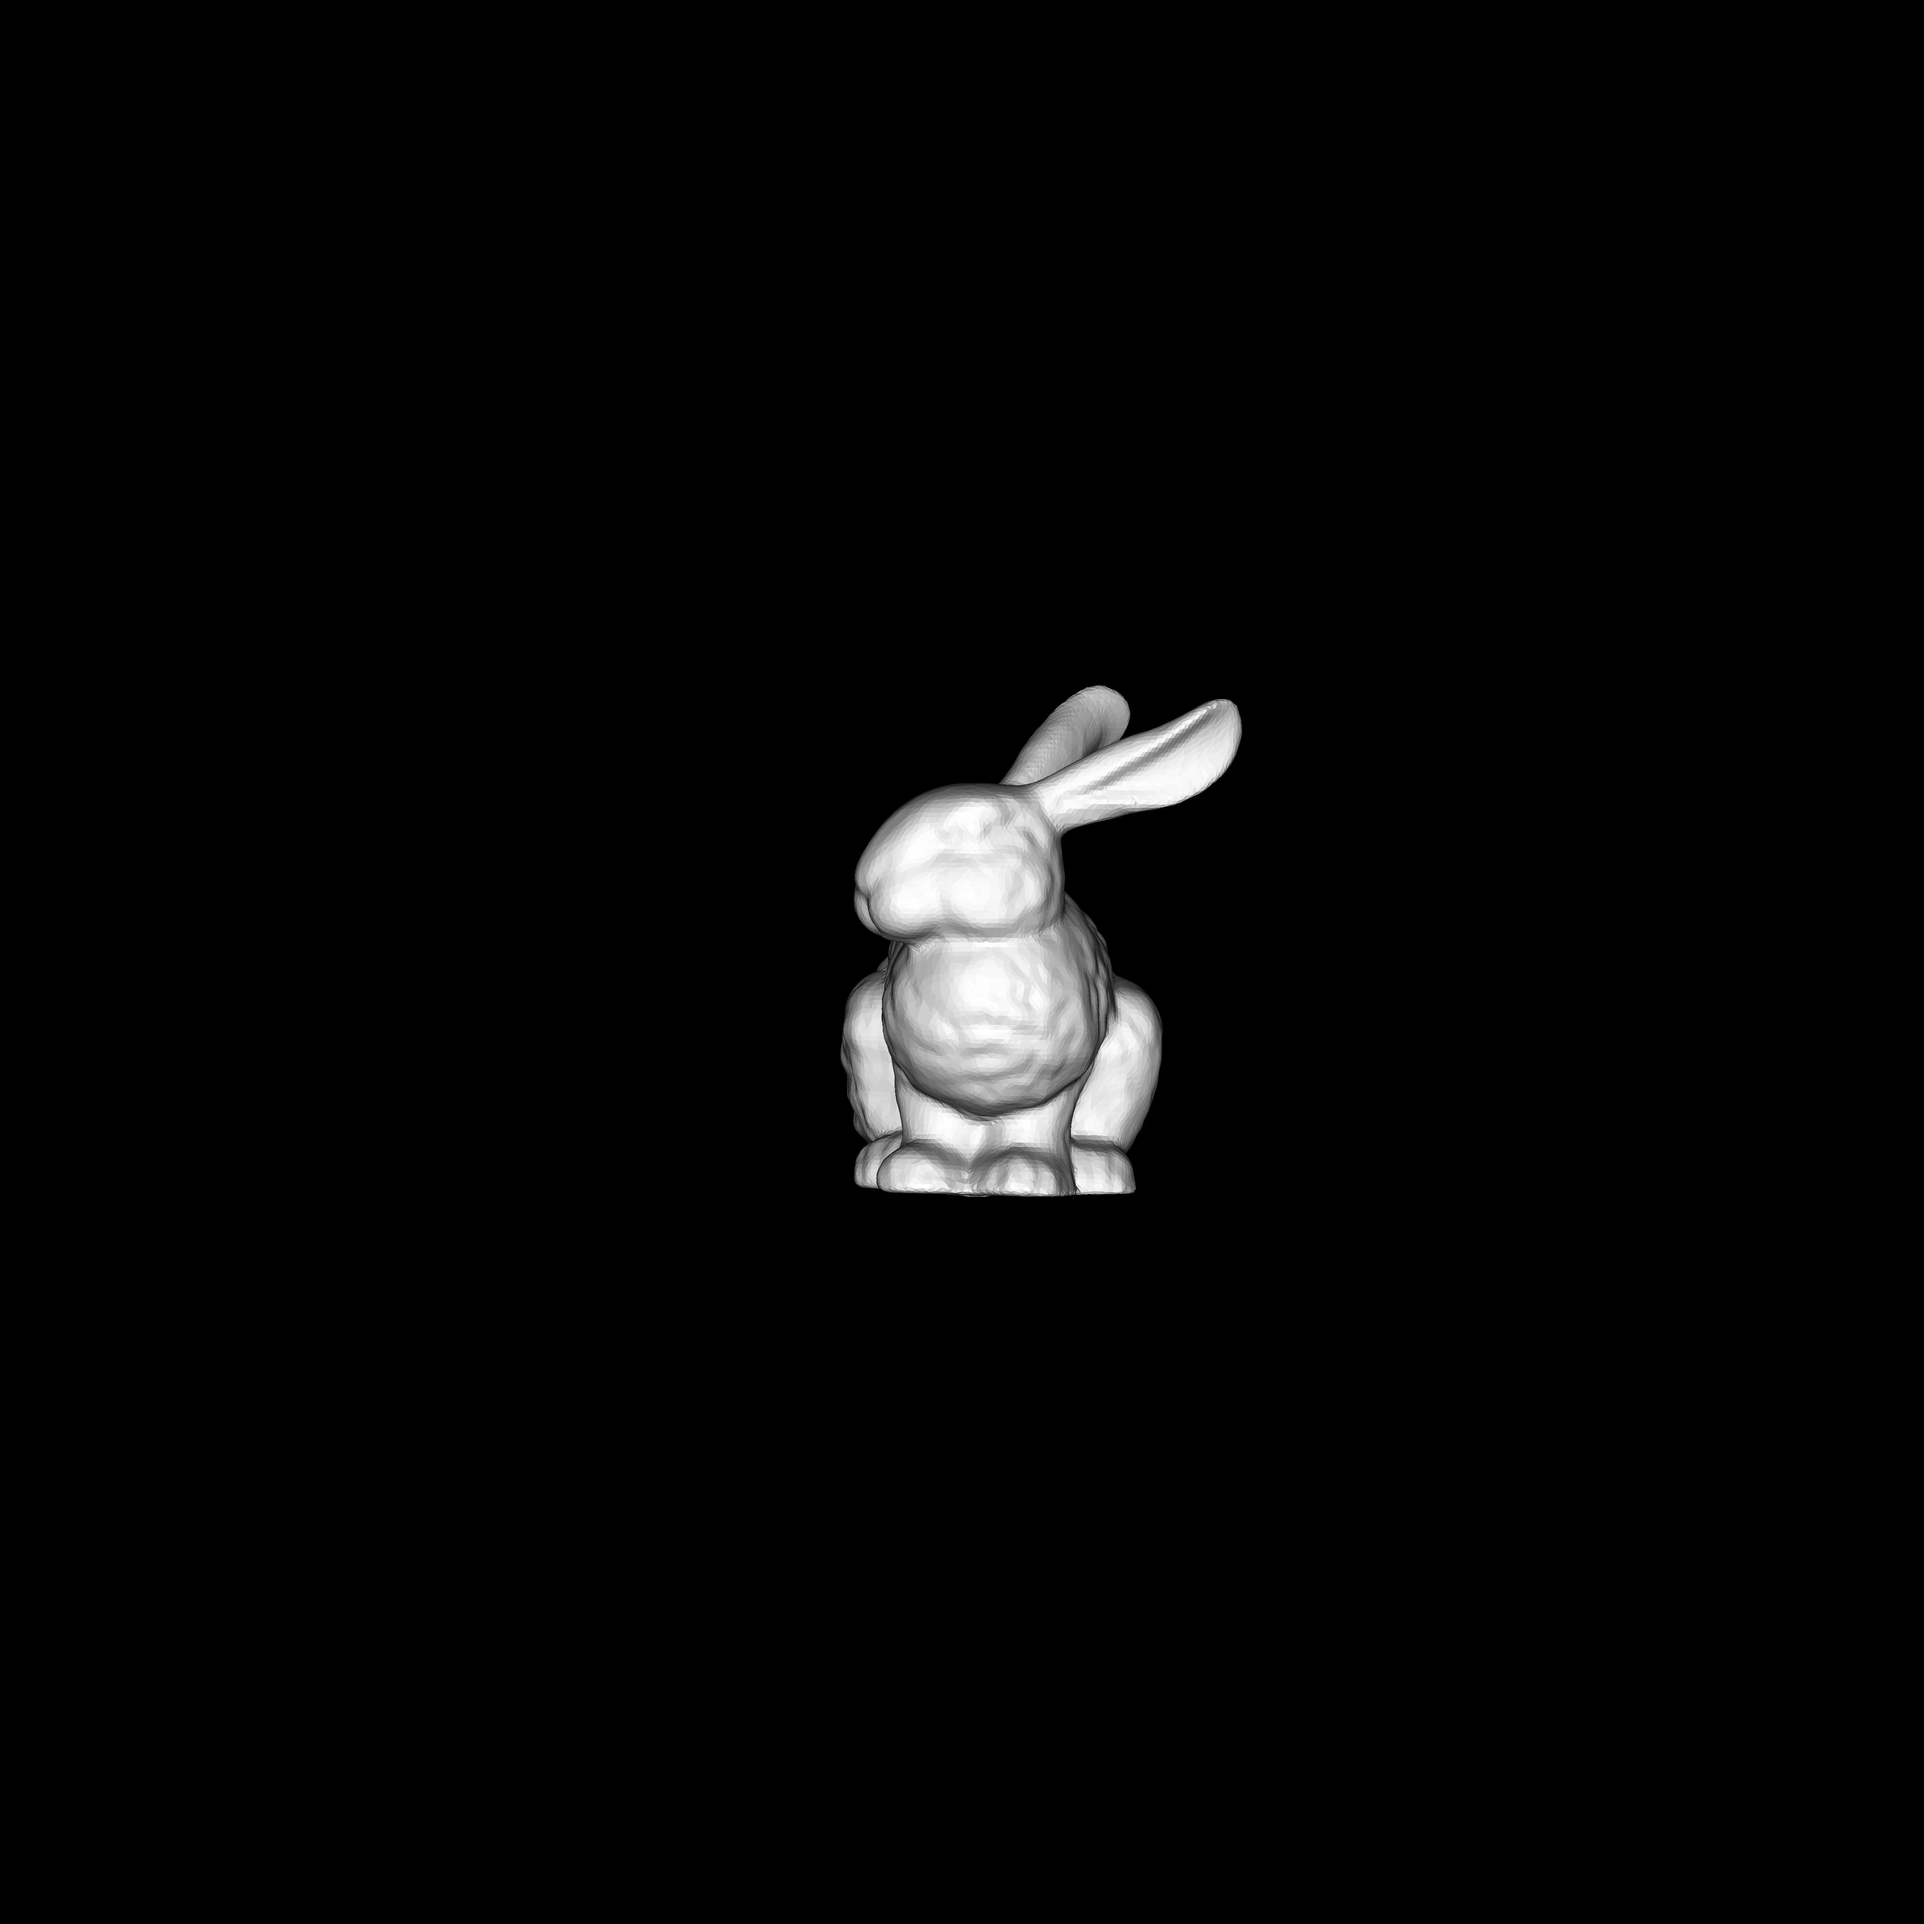
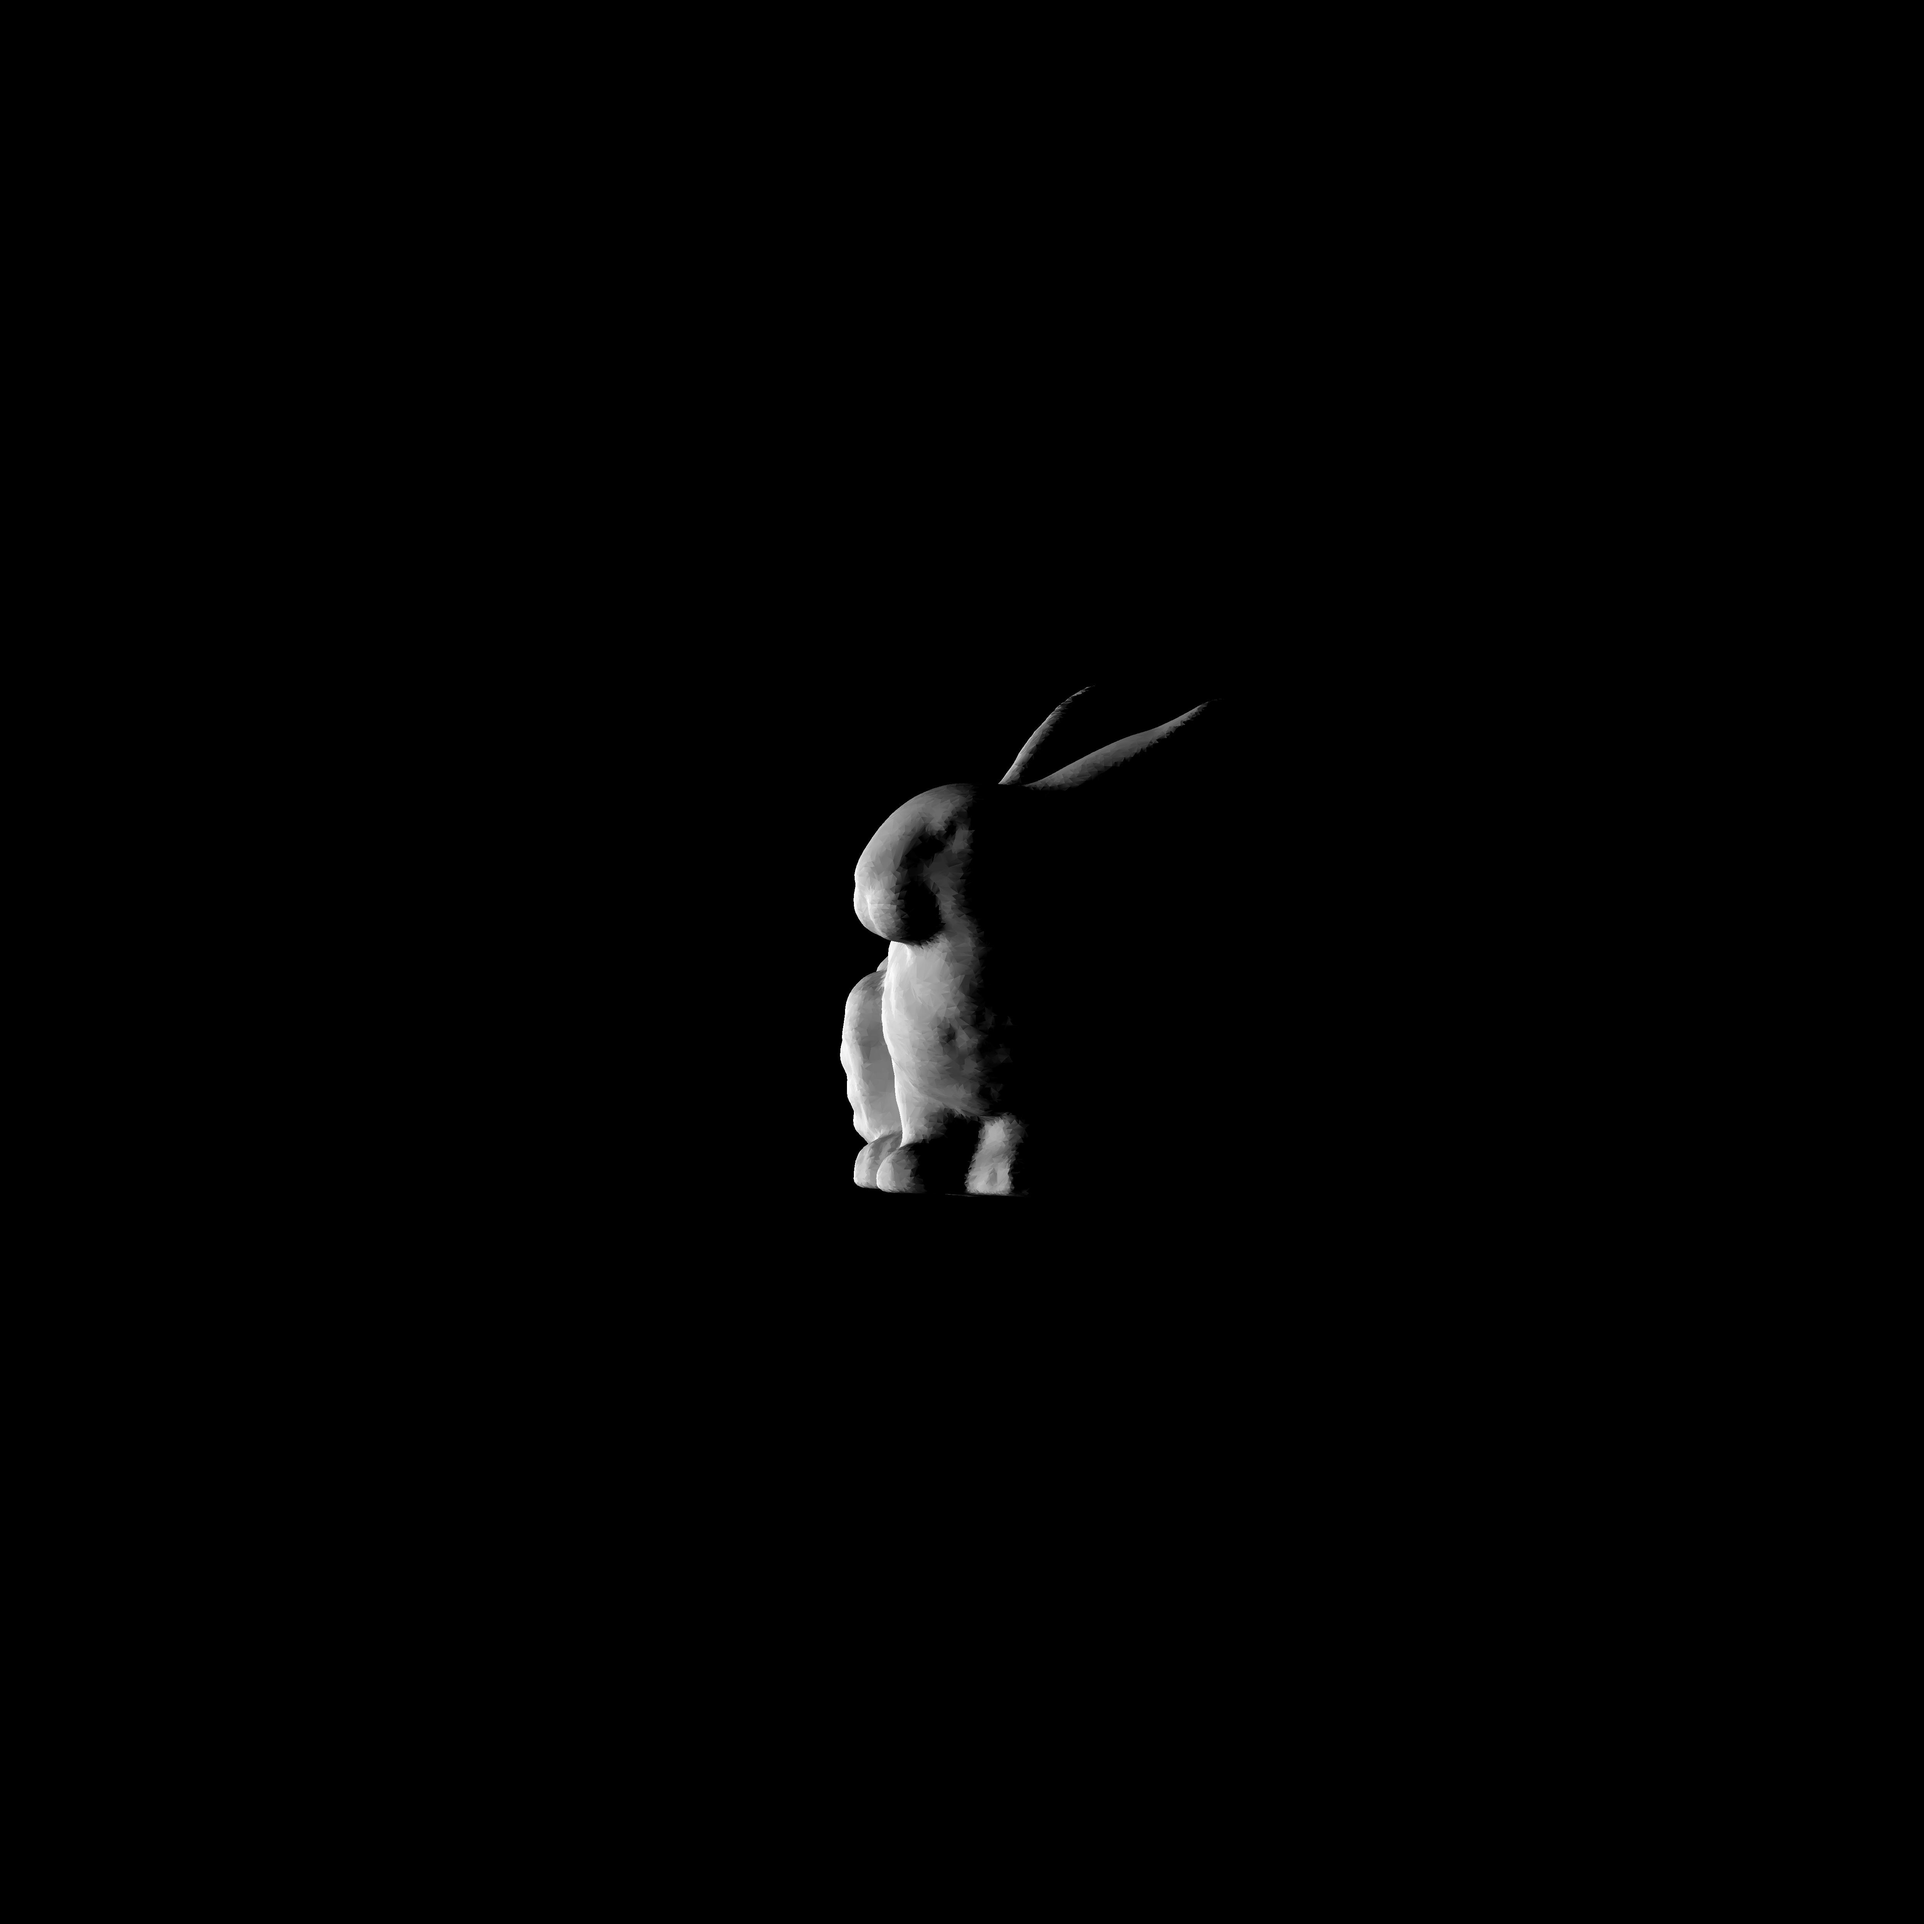
Initial commit

Changed region(s): [[0.4368, 0.3432, 0.6552, 0.624]]

diff --git a/tasks12-17.py b/tasks12-17.py
@@ -18,7 +18,7 @@ def bar_coord(x0, y0, x1, y1, x2, y2, x, y):
     return lambda0, lambda1, lambda2
 
 
-def draw_triangles(x0, y0, z0, x1, y1, z1, x2, y2, z2, image, color, size, z_buf):
+def draw_triangles(x0, y0, z0, x1, y1, z1, x2, y2, z2, image, color, size, z_buf, norms):
     draw = ImageDraw.Draw(image)
     xmin = math.floor(np.min([x0, x1, x2]))
     ymin = math.floor(np.min([y0, y1, y2]))
@@ -28,13 +28,18 @@ def draw_triangles(x0, y0, z0, x1, y1, z1, x2, y2, z2, image, color, size, z_buf
         xmin = 0
     if (ymin < 0):
         ymin = 0
+    l0 = np.dot(norms[0], [0, 0, 1]) / (LA.norm(norms[0]) * LA.norm([0, 0, 1]))
+    l1 = np.dot(norms[1], [0, 0, 1]) / (LA.norm(norms[1]) * LA.norm([0, 0, 1]))
+    l2 = np.dot(norms[1], [0, 0, 1]) / (LA.norm(norms[2]) * LA.norm([0, 0, 1]))
     for x in range(xmin, xmax):
         for y in range(ymin, ymax):
             lambda0, lambda1, lambda2 = bar_coord(x0, y0, x1, y1, x2, y2, x, y)
             if lambda0 > 0 and lambda1 > 0 and lambda2 > 0:
                 z_tilda = lambda0 * z0 + lambda1 * z1 + lambda2 * z2
                 if z_tilda < z_buf.buffer[x][y]:
-                    draw.point((x, size - y), color)
+                    brightness = int(255*(lambda0*l0+lambda1*l1+lambda2*l2))
+                    print(brightness)
+                    draw.point((x, size - y), (brightness,brightness,brightness))
                     z_buf.buffer[x][y] = z_tilda
 
 
@@ -42,8 +47,10 @@ def draw_polygons(image):
     parser = Parser()
     parser.load_vertex("Test_rabbit.txt", True)
     parser.load_polygons("Test_rabbit.txt")
+    parser.load_norms("Test_rabbit.txt")
+    parser.load_normal_indexes("Test_rabbit.txt")
     z_buf = Z_buf()
-    for polygon in parser.polygon_list:
+    for polygon, indexes in zip(parser.polygon_list, parser.index_list):
         triangle = []
         triangle_proj = []
         for point in polygon:
@@ -52,16 +59,16 @@ def draw_polygons(image):
             x, y, z = t_coord[0], t_coord[1], t_coord[2]
             t_coord = move_coord(x, y, z)
             x, y, z = t_coord[0], t_coord[1], t_coord[2]
-
             coord = proj_coord(x, y, z)
             triangle.append((x, y, z))
             triangle_proj.append((coord[0], coord[1], 1.0))
+        norms = (parser.norm_list[indexes[0]-1],parser.norm_list[indexes[1]-1],parser.norm_list[indexes[2]-1])
         n = count_norm(triangle)
         cos = get_cos(n)
         if cos < 0:
             draw_triangles(triangle_proj[0][0], triangle_proj[0][1], triangle[0][2], triangle_proj[1][0],
                            triangle_proj[1][1], triangle[1][2], triangle_proj[2][0], triangle_proj[2][1],
-                           triangle[2][2], image, (-int(255 * cos), -int(255 * cos), -int(255 * cos)), size, z_buf)
+                           triangle[2][2], image, (-int(255 * cos), -int(255 * cos), -int(255 * cos)), size, z_buf, norms)
         else:
             continue
     image.save("images/PozhiloyRabbitPolygonsTrianglesLight.jpg", "JPEG")

diff --git a/task4and6.py b/task4and6.py
@@ -3,6 +3,8 @@ class Parser:
         self.vertex_list = []
         self.polygon_list = []
         self.vertex_list_z = []
+        self.norm_list = []
+        self.index_list = []
 
     def load_vertex(self, fileName,z):
         objFile = open(fileName)
@@ -34,10 +36,41 @@ class Parser:
 
         objFile.close()
 
+    def load_norms(self, fileName):
+        objFile = open(fileName)
+        for line in objFile:
+            split = line.split()
+            if split[0] == "vn":
+                norms = (float(split[1]), float(split[2]),
+                            float(split[3]))
+                self.norm_list.append(norms)
+
+    def load_normal_indexes(self, fileName):
+        objFile = open(fileName)
+        for line in objFile:
+            split = line.split()
+            # if blank line, skip
+            if not len(split):
+                continue
+            if split[0] == "f":
+                first = (split[1:][0])[::-1]
+                second = (split[1:][1])[::-1]
+                third = (split[1:][2])[::-1]
+                indexes = (int(first.partition('/')[0][::-1]), int(second.partition('/')[0][::-1]),
+                            int(third.partition('/')[0][::-1]))
+                self.index_list.append(indexes)
+
+        objFile.close()
 
 
 
 
+
+parser = Parser()
+parser.load_norms("Test_rabbit.txt")
+parser.load_polygons("Test_rabbit.txt")
+parser.load_vertex("Test_rabbit.txt", True)
+parser.load_normal_indexes("Test_rabbit.txt")
 
 
 
